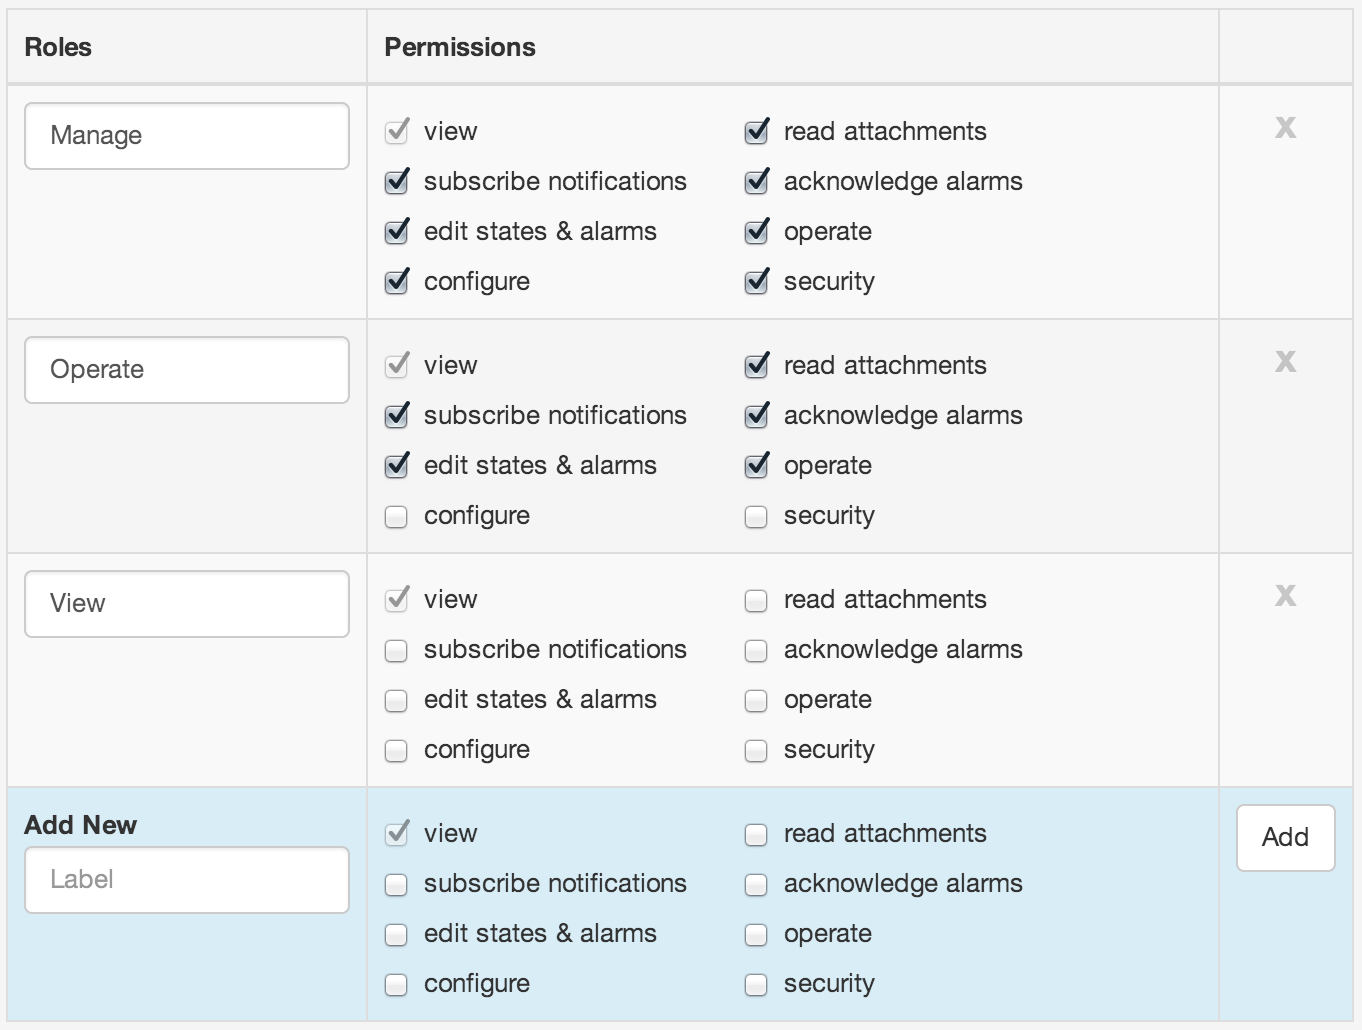
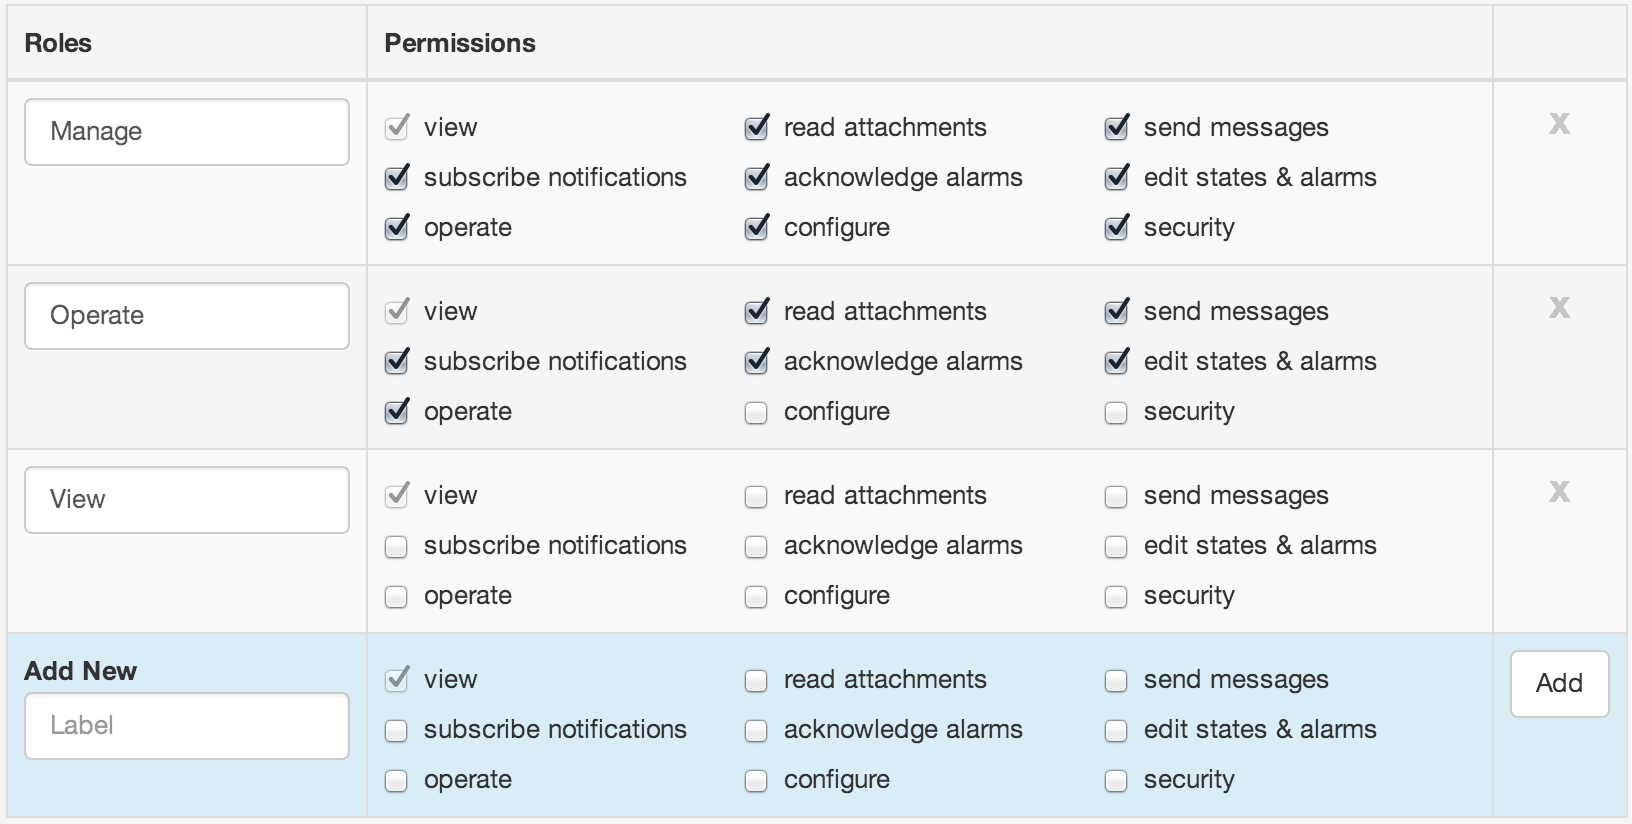
added messages content, new security role, etc.

diff --git a/source/faq/index.rst b/source/faq/index.rst
@@ -62,12 +62,21 @@ TCP Callback
 Scout 
 	The *Scout modem* is the easiest way to connect your data logger to Eagle.io. The Scout takes any standard internet ready SIM Card without the need for fixed IP addresses and has a range of smart features including inbuilt GPS, signal strength monitoring, event based reporting and low power mode.
 
+What level of functionality do you provide for connected data loggers?
+~~~~~~~~~~~~~~~~~~~~~~~~~~~~~~~~~~~~~~~~~~~~~~~~~~~~~~~~~~~~~~~~~~~~~~
+Eagle.io provides much more than just data retrieval and display. From Eagle.io you can upload programs and firmware (including network wide updates in one click), perform Control operations (setting of public table variables in Campbell Scientific data loggers), automatically create/update/merge parameters as programs change, automatic clock sync with timezone and daylight savings support, and a range of other smart features designed to make managing your network of data loggers easier than ever before.
+
+Can I connect to my data logger using 3rd party software?
+~~~~~~~~~~~~~~~~~~~~~~~~~~~~~~~~~~~~~~~~~~~~~~~~~~~~~~~~~
+Yes! You can enable *Remote Access* to your data logger at any time. An Internet address and Port will be allocated to allow you to immediately connect via TCP/IP. You can specify a session timeout and restrict access based on IP Address or allow connections from anywhere. Want to use LoggerNet or other tools for your low level operations - no problem. See :ref:`Data Source <node-configuration-datasource-datalogger>` configuration for full details.
+
+
 Files
 -----
 
 What types of time series data files do you support?
 ~~~~~~~~~~~~~~~~~~~~~~~~~~~~~~~~~~~~~~~~~~~~~~~~~~~~
-We support most types of delimited text files such as csv, loggernet and other standard formats. See :ref:`Data Source <node-configuration-datasource-datalogger>` configuration for full details.
+We support most types of delimited text files such as csv, loggernet and other standard formats. See :ref:`Data Source <node-configuration-datasource-file>` configuration for full details.
 
 What file transports do you support for automatic collection?
 ~~~~~~~~~~~~~~~~~~~~~~~~~~~~~~~~~~~~~~~~~~~~~~~~~~~~~~~~~~~~~

diff --git a/source/topics/nodes/datasource_datalogger.rst b/source/topics/nodes/datasource_datalogger.rst
@@ -101,7 +101,33 @@ Transport type
         Device Id
             The unique 15 digit IMEI number assigned to the *Scout modem*. Printed on the back of device.
 
+Remote access
+    Remote access allows you to connect directly to your data logger over TCP/IP (TCP Callback and Scout transport only). An Internet address and Port will be temporarily allocated when enabling remote access. Scheduled collection, control and configuration will not be available while a remote client is connected, and the Source status will show *REMOTE*.
 
+    Session timeout
+        Select a duration for the session, after which the remote access connection will be automatically closed.
+
+    Allow acces from
+        Restrict access to your data logger from your current IP address or a range of IP addresses specified using CIDR notation. Select *Anywhere* to allow connections from any Internet enabled device.
+
+    If the remote device is not connected or another client is already connected when you try to connect, a status message will be returned and remote access refused.
+
+.. raw:: latex
+
+    \vspace{-10pt}
+
+.. only:: not latex
+
+    .. image:: datasource_datalogger_connection_remoteaccess.png
+        :scale: 50 %
+
+    | 
+
+.. only:: latex
+
+    | 
+
+    .. image:: datasource_datalogger_connection_remoteaccess.png
 
 Retry attempts
     Select how many retry attempts are made during an acquisition or scheduled collection before the communications is considered failed.
@@ -222,7 +248,7 @@ Parameter Selection
 
     Parameters can be re-assigned to new Series at any time without loosing existing historic data.
 
-    The series icon indicates the :ref:`type of parameter <node-types>` that will be created.
+    The series icon indicates the :ref:`type of Parameter <node-types>` that will be created.
     Rename and Delete operations should be performed from the Workspaces Menu.
 
 

diff --git a/source/topics/messages/index.rst b/source/topics/messages/index.rst
@@ -1,0 +1,82 @@
+.. _messages:
+
+Messages
+=========
+
+|icon-message| Messages provides access to items for download, general communication to users of a Workspace and important system announcments.
+
+The Messages icon indicates the total number of *Unread* messages. Clicking the icon will reveal the Message Menu (Desktop layout only) which displays a preview of the most recent messages. Scroll down the menu to reveal older messages. Clicking on an Export message will immediately download the associated file.
+
+.. raw:: latex
+
+    \vspace{-10pt}
+
+.. only:: not latex
+
+    .. image:: messages_menu.png
+        :scale: 50 %
+
+    | 
+
+.. only:: latex
+    
+    | 
+
+    .. image:: messages_menu.png
+
+.. note::
+    Export messages are automatically removed from the system after 12 hours.
+
+
+All messages
+-------------
+
+The Messages dialog displays the full message content and provides management functions for marking messages as read/unread, removing messages and downloading historic exports.
+
+.. raw:: latex
+
+    \vspace{-10pt}
+
+.. only:: not latex
+
+    .. image:: messages_all.png
+        :scale: 50 %
+
+    | 
+
+.. only:: latex
+    
+    | 
+
+    .. image:: messages_all.png
+
+
+New message
+------------
+
+Send a new message to all users of a Workspace including the associated account Administrators and Owner. You will also receive a copy of the message. Select the Workspace from the drop down, enter your message and click Send.
+
+.. raw:: latex
+
+    \vspace{-10pt}
+
+.. only:: not latex
+
+    .. image:: messages_new.png
+        :scale: 50 %
+
+    | 
+
+.. only:: latex
+    
+    | 
+
+    .. image:: messages_new.png
+
+.. note::
+    You must have *Send Messages* permission for the Workspace in order to be able to send messages to its users.
+
+.. raw:: latex
+
+    \newpage
+    

diff --git a/source/topics/views/list/index.rst b/source/topics/views/list/index.rst
@@ -120,7 +120,33 @@ Location
 Source
     Name of Source including relative path within Location
 Status
-    Current status of the Source: SCHEDULED, DOWNLOADING, UPDATING, CONTROLLING, IDLE, RETRYING, FAILED, DISABLED
+    Current status of the Source: 
+
+    DISABLED
+        The Source has been disabled by a user and will not be updated.
+    IDLE
+        The Source is enabled for communication but has no collection scheduled.
+    SCHEDULED
+        The Source is enabled for communication and has collection scheduled.
+    QUEUED
+        The Source is queued for communication.
+    CONNECTING
+        Eagle.io is currently attempting to connect to the Source.
+    CONTROLLING
+        Control operations are being performed on the connected Source.
+    DOWNLOADING
+        Data is currently being downloaded from the connected Source.                                     
+    RETRYING
+        Acquisition, Control or Configure operations have failed so a retry attempt has been scheduled.
+    FAILED
+        Acquisition, Control or Configure operations have failed (after retry attempts exceeded).
+    PROCESSING
+        Data is being processed after being downloaded from the connected Source.
+    CONFIGURING
+        Eagle.io is currently sending configuration to the Source.
+    REMOTE
+        Remote access is enabled and a client is connected. Acquisition, Control and Configure operations will not be available during this time.
+
 Latest Data
     Timestamp of the most recent data from the Source.
 Collected

diff --git a/source/topics/nodes/datasource_file.rst b/source/topics/nodes/datasource_file.rst
@@ -274,7 +274,7 @@ General settings are used to specify file format and encoding options.
 	.. image:: parser_toolbar.png
 
 Column delimiter
-	Specify the :term:`delimiter` used to seperate values in each line of the file. Select a delimiter from the drop down or enter a custom character to use.
+	Specify the :term:`delimiter` used to separate values in each line of the file. Select a delimiter from the drop down or enter a custom character to use.
 
 Text qualifier
 	Specify the character used to surround text values. This character will be automatically stripped if it exists in a column. Select a qualifier from the drop down or enter a custom character to use.

diff --git a/source/topics/account_management/security/index.rst b/source/topics/account_management/security/index.rst
@@ -31,7 +31,7 @@ If you would like a User to have restricted access to Workspaces, then DO NOT ad
 		:scale: 80 %
 
 .. note:: 
-	You can not remove the Account Owner or your own profile. 
+	You can not remove the Account Owner or your own user profile from the list. 
 
 
 .. _management-security-userroles:
@@ -63,6 +63,9 @@ View
 
 Read attachments
 	Preview and Download attachments.
+
+Send messages
+	Send messages to users of the Workspace.
 
 Subscribe notifications
 	Subscribe to Nodes and receive Email and SMS notifications.

diff --git a/source/topics/account_management/general/index.rst b/source/topics/account_management/general/index.rst
@@ -94,7 +94,7 @@ Source and Quality Codes must be whole numbers between 0 - 65535.
 		:scale: 80 %
 
 Source Quality
-	Quality Code(s) to match on acquired data. Seperate multiple quality codes with a comma.
+	Quality Code(s) to match on acquired data. Separate multiple quality codes with a comma.
 
 Quality Code
 	Quality Code to apply to the data for display and export. You can use the same Code as the Source or specify a custom code. Must be numeric.

diff --git a/source/intro/overview/index.rst b/source/intro/overview/index.rst
@@ -80,7 +80,7 @@ The layout of these sections will vary depending on the screen size of your devi
 1. Create Menu
 2. Filters
 3. Status Bar
-4. User Menu, Help and Fullscreen mode
+4. User Menu, Messages, Help and Fullscreen mode
 5. View Selector
 6. Toolbar
 7. Content Area

diff --git a/source/topics/index.rst b/source/topics/index.rst
@@ -10,6 +10,7 @@ Introductions to all the key parts of eagle.io you’ll need to know:
    views/index
    nodes/index
    user_preferences/index
+   messages/index
    alarms_and_notifications/index
    operate_and_control/index
    historic_data/index
